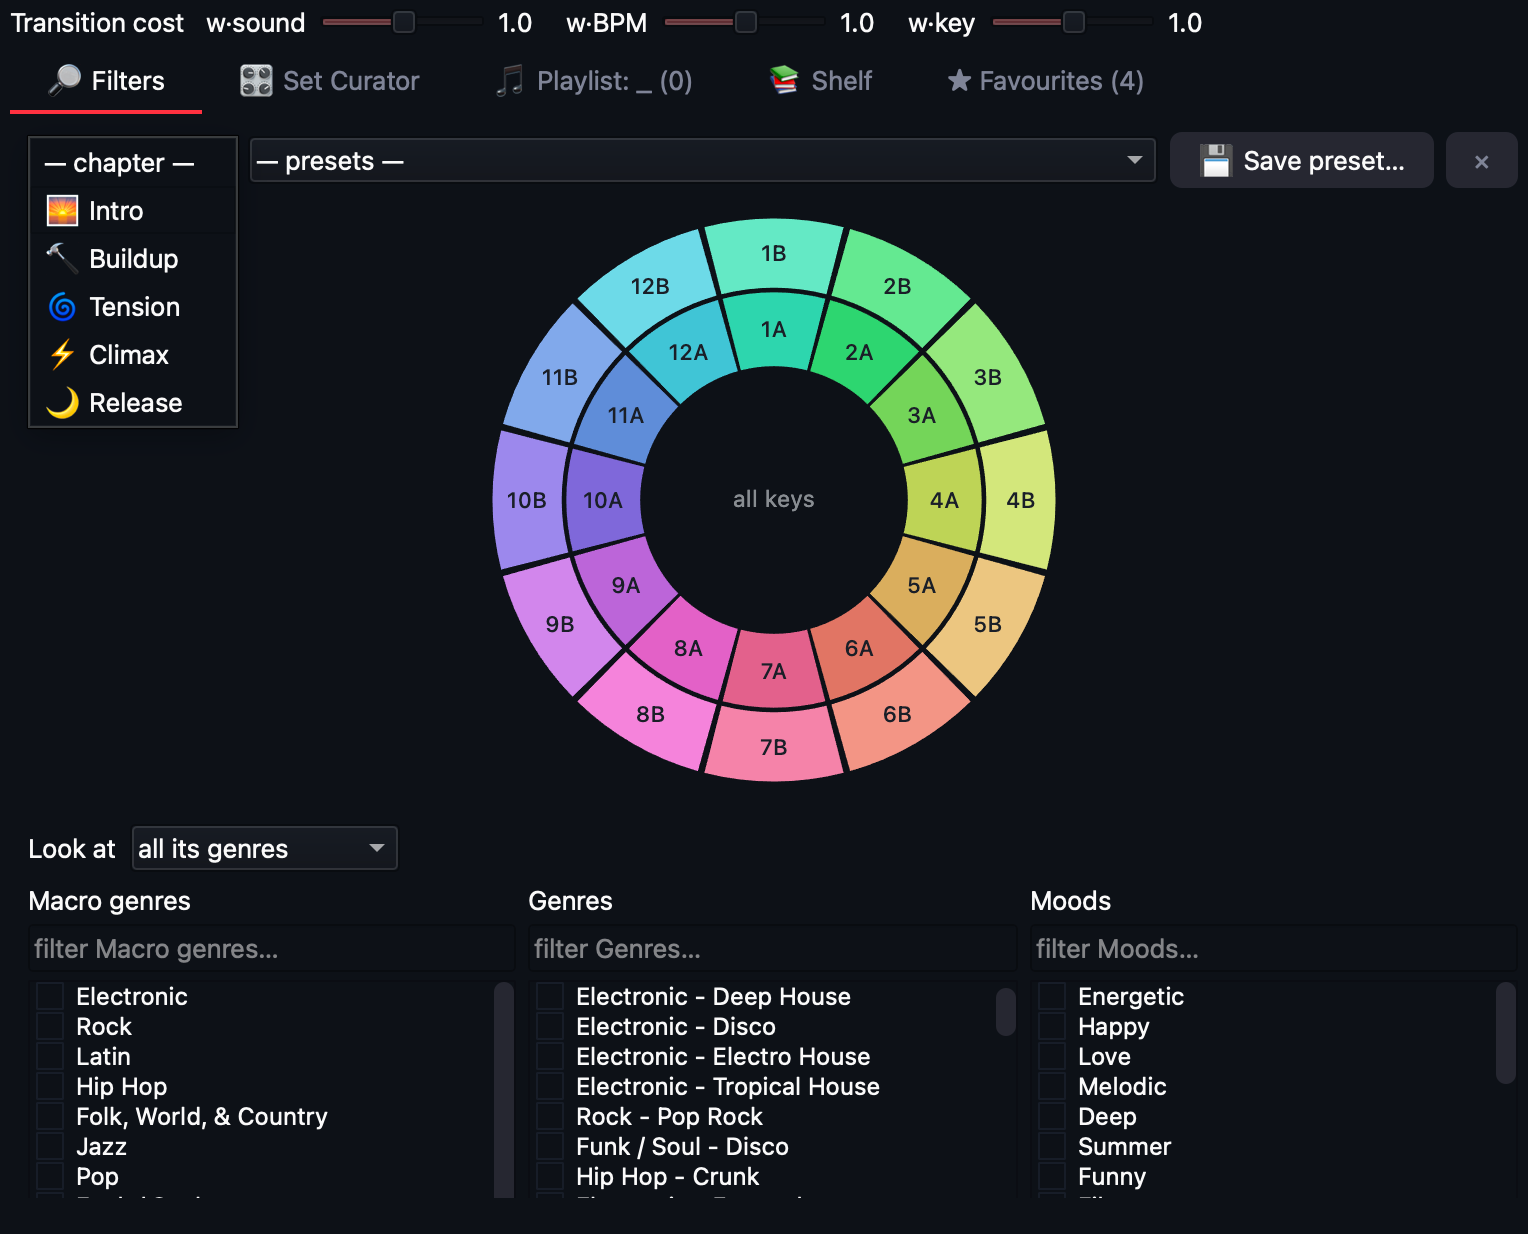
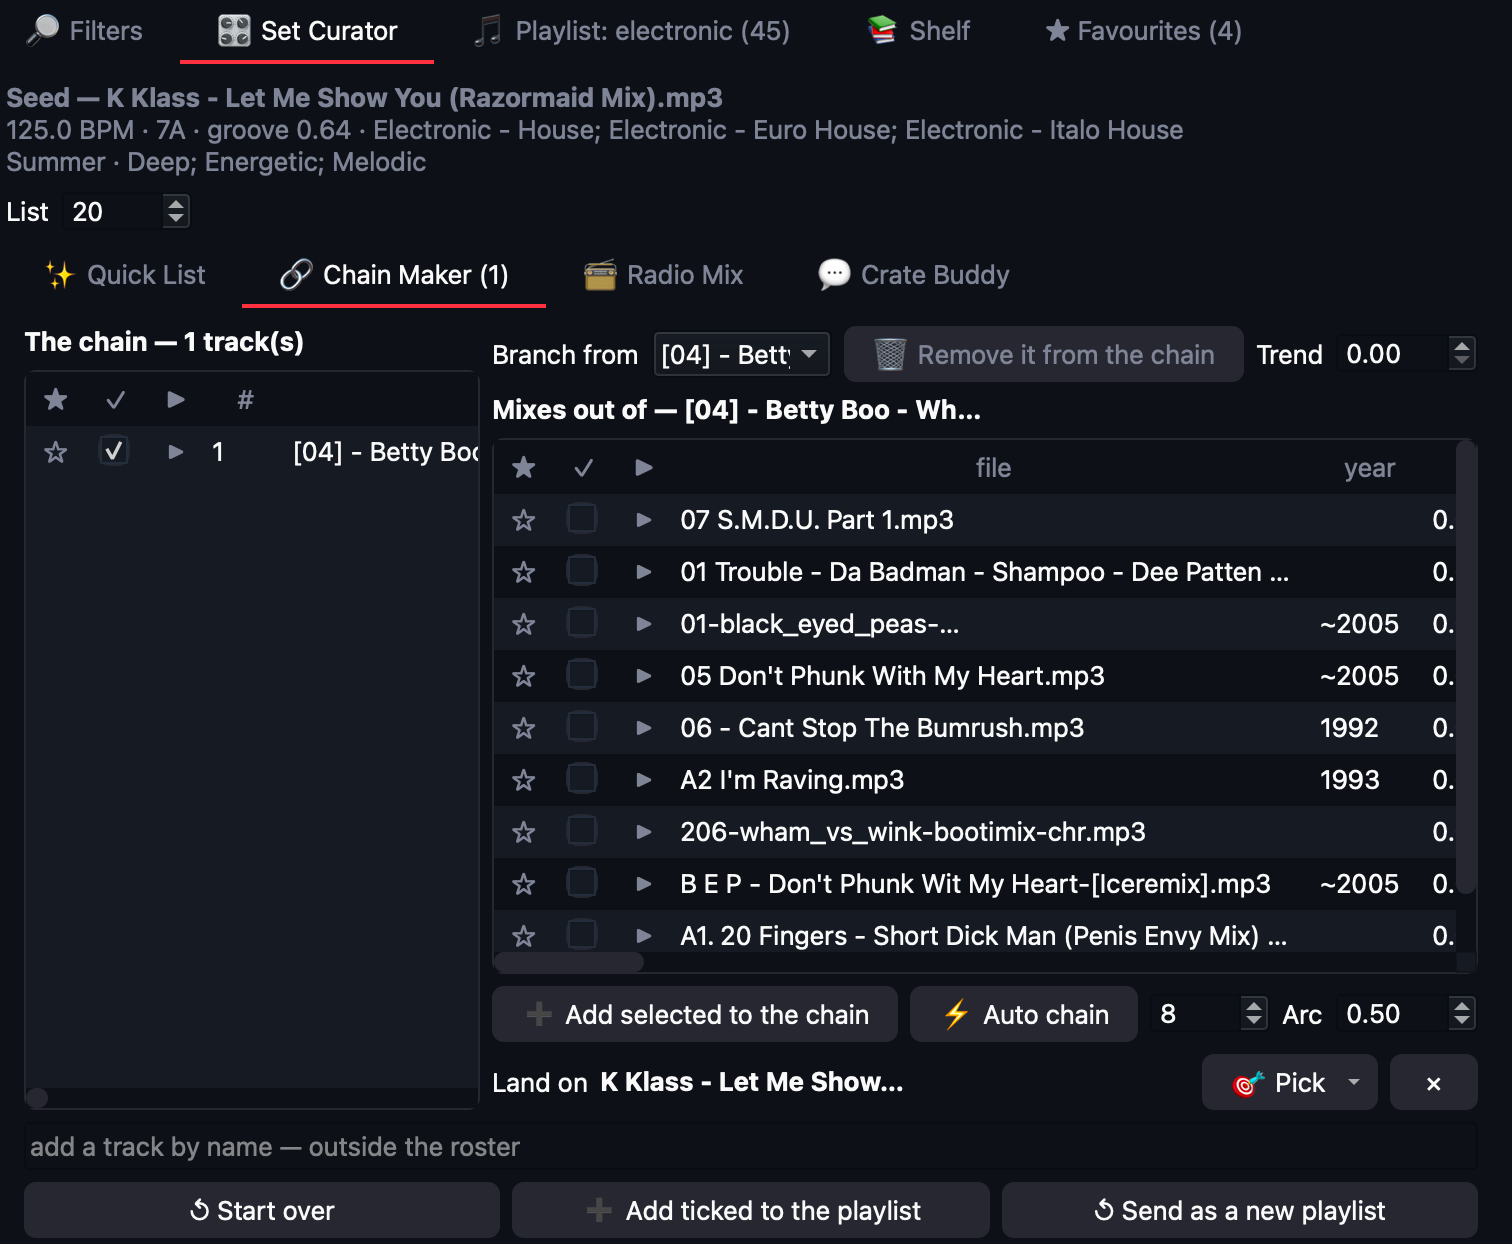
add img files

diff --git a/index.html b/index.html
@@ -162,6 +162,19 @@
     </div>
   </section>
 
+  <!-- THE PLAYLIST -->
+  <section>
+    <h2>The set, drawn.</h2>
+    <p class="sub">Every tool writes into the same playlist, and the playlist is a curve: one dot per track,
+      the height whatever you choose to read — BPM, energy, mood. A set that climbs, holds and lets go
+      looks like one. The roughest transition is named, repeats are tinted, and <b>Create chapters</b>
+      splits the run into intro, buildup, tension, climax and release. Export as M3U8 or rekordbox XML.</p>
+    <div class="shot" style="aspect-ratio:auto">
+      <!-- SCREENSHOT 4: the Playlist tab with the table and the height curve under it, "Height means BPM". -->
+      <img src="img/playlist.png" alt="The Playlist: the tracks in order, and under them the curve of the set with one dot per track, height by BPM" onerror="this.replaceWith(Object.assign(document.createElement('span'),{textContent:'Screenshot: Playlist — the table and the curve of the set'}))">
+    </div>
+  </section>
+
   <!-- VIDEO -->
   <section>
     <h2>Two minutes, start to set.</h2>
